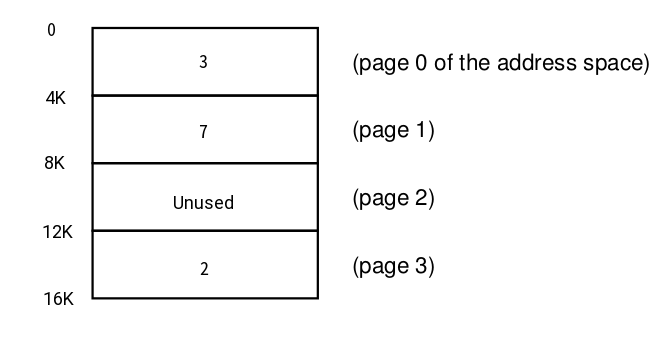
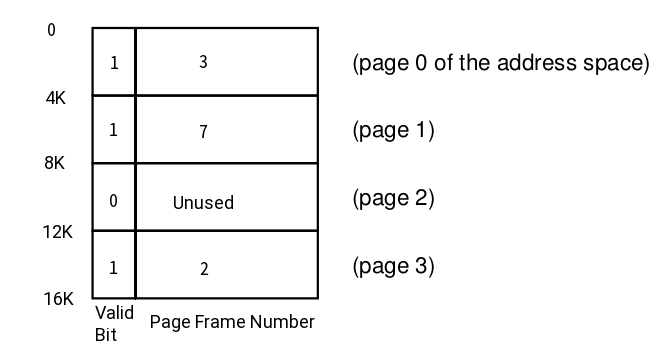
update

Changed region(s): [[0.1495, 0.0867, 0.4783, 0.9538], [0.1196, 0.9538, 0.1794, 0.9827]]

diff --git a/ostep/2.MemoryVirtualization.md b/ostep/2.MemoryVirtualization.md
@@ -70,7 +70,7 @@
 
 解决这个问题的思路是每次只分配一小片内存，按需分配，这一小片内存的大小通常为4KB，称之为一页（page）。按照同样的大小切割逻辑地址空间和物理地址空间，比如前面16K的地址空间可以划分成4个逻辑页（Virtual Page），编号为0-3；我们再假设物理内存大小为32K，因此可以划分成8个物理页（page Frame），编号为0-7。
 
-这时需要一个数据结构来记录逻辑地址到物理地址的映射关系，最简单的数据结构就是数组，这个数组称为页表(pagetable)，数组的每一个元素称为页表项目(Page Table Entry，或PTE)，其内容就是这个逻辑页对应的物理页编号。 对于16K的逻辑地址空间，每个进程只需要一个大小为4的页表就足够记录其逻辑地址和虚拟地址的对应关系，例如：
+这时需要一个数据结构来记录逻辑地址到物理地址的映射关系，最简单的数据结构就是数组，这个数组称为页表(pagetable)，数组的每一个元素称为页表项目(Page Table Entry，或PTE)，其内容就是这个逻辑页对应的物理页编号（Page Frame Number）。 对于16K的逻辑地址空间，每个进程只需要一个大小为4的页表就足够记录其逻辑地址和虚拟地址的对应关系，例如：
 
 ![](img/pagetable.png)
 
@@ -80,7 +80,7 @@
 
 图5-物理内存
 
-上图可以看到，进程的逻辑页0、1、3分别映射到物理页3、7、2，而逻辑页2没有使用，因此处于没有分配的状态。
+上图可以看到，进程的逻辑页0、1、3分别映射到物理页3、7、2，而逻辑页2没有使用，因此处于没有分配的状态。因此这里需要一个叫做valid bit的标记位来确定该页是否已经映射到物理内存。
 
 # 地址翻译
 
@@ -94,9 +94,37 @@
 3. 从页表中读出第3项（即pti指向的PTE），从图4中可以看到，它的内容是2，表示这个逻辑页对应第2个物理页。
 4. 最后可以计算出逻辑地址16383对应的物理地址 2(逻辑页编号) × 4K（页大小） + 4095 (offset) = 12287
 
-
 # Swapping
 
-读者们会注意到，PTE至少应该包含一个标记位，用来表示这个页是否已经分配，是的，而且PTE上还不止一个标记位，比如X86的PTE如下：
+有些时候，物理内存实在放不下所有进程需要的页，这时候可以在硬盘中划分一个swap分区，把不常用的页换出(Swap out) 到swap分区中，这样物理内存能空出一部分放置别的内容。当需要访问swap分区中的内容时，再用类似的方式淘汰其他不常用的内容，在把swap分区的内容换入（Swap in)到物理内存中。
 
-![](img/pte.png)
+因此，PTE中其实需要一个叫做present bit的标记位，用来标记这个页对应的内容是否在物理内存中。如果preset bit为1，说明对应的页在物理内存中，PTE的内容表示对应的物理页（PFN）；如果为0,说明这个页不在内存中，操作系统可以使用PTE来保存这个页在swap分区中的位置。
+
+## Page Table Entry
+
+读者们会注意到，PTE不像图4中展示的那么简单，它至少应该包含两个标记位：
+
+- Valid bit: 标记该页是否已经映射到物理内存
+- Present bit： 标记该页是否在物理内存中
+
+一个页可以是Valid，但是not present的，因为它被换出去了。
+
+PTE上通常还会有些别的标记为，来看看X86的PTE：
+
+-![](img/pte.png)
+
+- present bit(P)：表示页是否在内存中
+- read/write bit(P)：页是否可写
+- user/supervisor(P)：用户是否可访问这些页
+- PTW/PCD/PAT/G：跟硬件缓存相关
+- access bit（A)：该页最近是否访问过，操作系统可以依赖这个位来制定swap的策略
+- dirty bit(D)：是否有脏数据需要写回到硬盘的。为什么会有这个位？因为物理页还可以用来缓存文件或者块设备的内容，设置了direct bit的内容需要定期写回到硬盘中。
+- Page Frame Number(PFN)：该页对应的物理页号。
+
+我们可以发现：
+1. 这里缺少了一个valid bit，linux用别的方式实现了valid bit，如果整个PTE的内容全为0，那么这个页是未映射的。
+2. 跟文件系统相比，这里缺少了一个可执行权限的判断，攻击者这可以通过缓冲区溢出攻击漏洞在栈中注入可恶意代码，参考《CS:APP Attack Lab: 缓冲区溢出攻击》（https://cloud.tencent.com/developer/article/1590156）。后来x86_64中添加了禁止执行位（No-Execute bit，或NX）来禁止从这个页中取指令。
+
+## Pagetable 的问题
+
+
